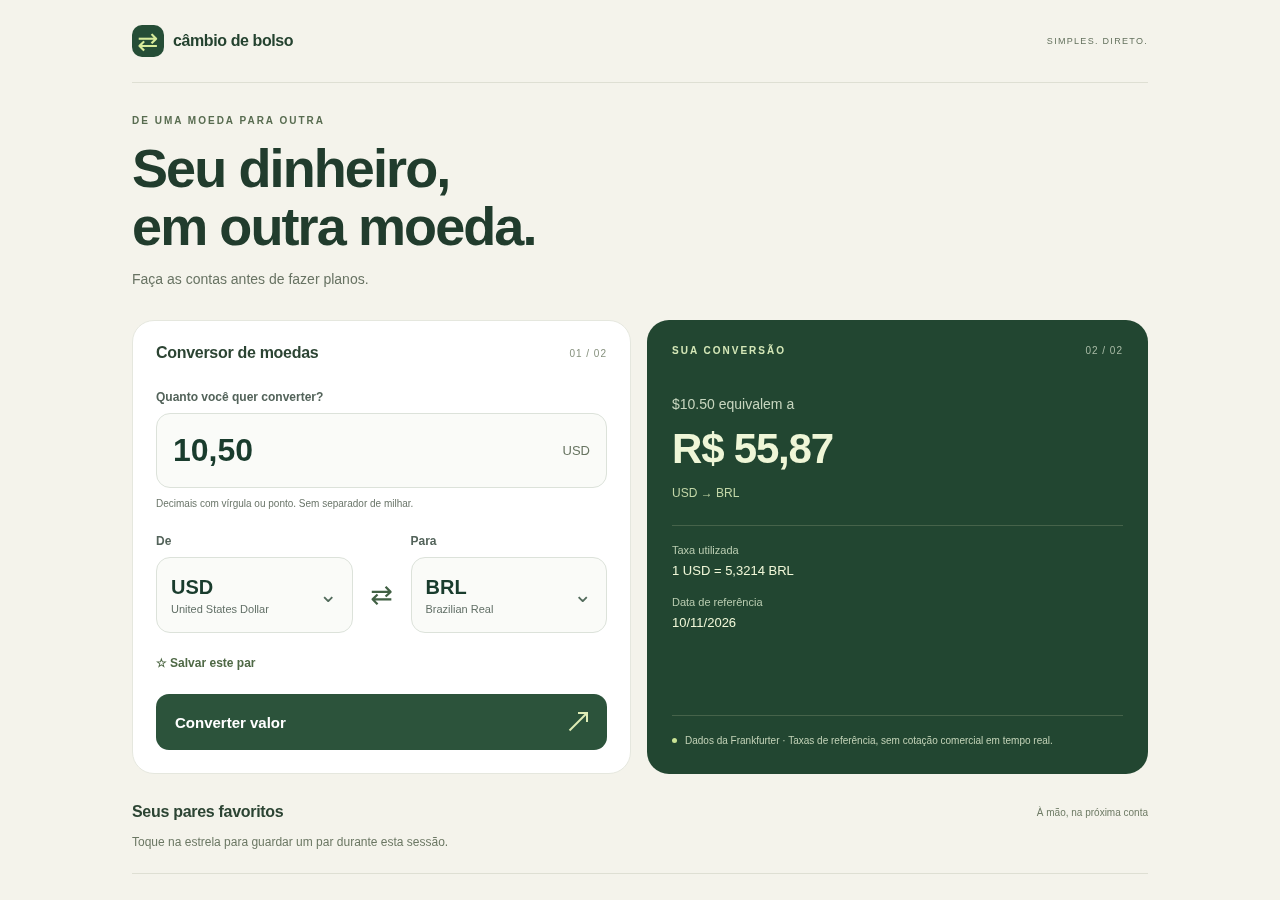
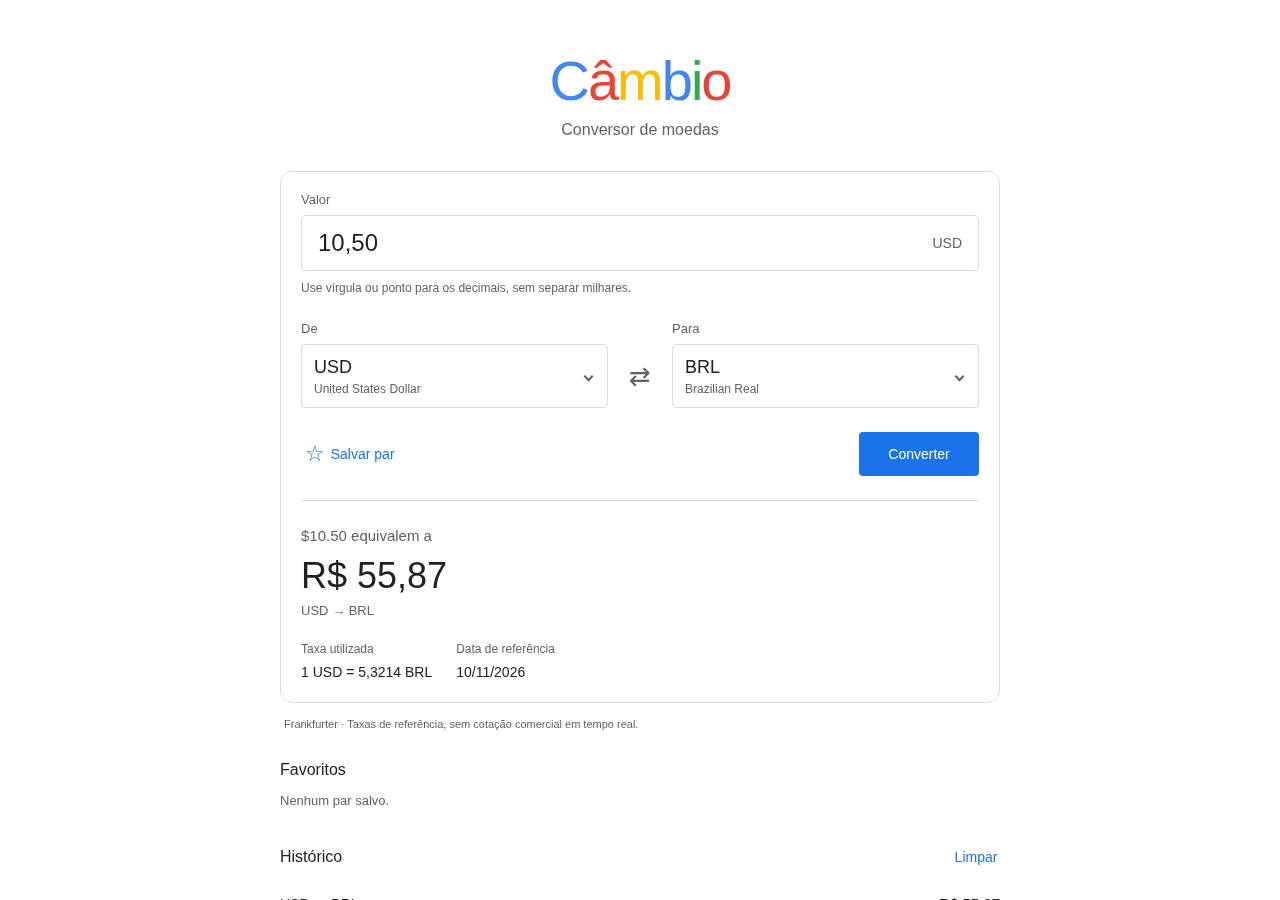
docs: atualiza capturas e referências do novo layout

diff --git a/docs/requisitos.md b/docs/requisitos.md
@@ -4,85 +4,87 @@ Este documento relaciona os requisitos do enunciado “Aplicativo de Conversão 
 
 ## Entrega e arquitetura
 
-| Requisito | Implementação ou instrução |
-| --- | --- |
-| React Native com JavaScript e Expo | `package.json`, `app.json`, `index.js` e `App.js`; Node 24 em `.nvmrc`. |
-| Estrutura simples em MVVM | Pastas `src/models`, `src/viewmodels` e `src/views`. |
-| Inicialização e integração da tela | `App.js`. |
-| Model independente da interface | `src/models/frankfurter.js`: requisições, HTTP, JSON e validação dos dados. |
-| View sem requisições ou cálculo de conversão | `ConverterScreen.js` e `CurrencyPicker.js`: renderização e eventos. |
-| ViewModel com React Hooks | `useConverterViewModel.js`: estados, efeitos, validação e coordenação. |
-| Regras e formatação separadas da tela | `src/viewmodels/conversion.js`. |
-| Instruções de instalação, navegador e plataformas nativas | `README.md`. |
-| Código no GitHub | Repositório `TheusBertelli/conversor-de-moedas`; commits e envio são verificados à parte. |
-| Capturas de tela | `docs/screenshots/conversao-mobile.png` e `conversao-desktop.png`; a legenda no README informa a origem dos dados. |
+| Requisito                                                 | Implementação ou instrução                                                                                         |
+| --------------------------------------------------------- | ------------------------------------------------------------------------------------------------------------------ |
+| React Native com JavaScript e Expo                        | `package.json`, `app.json`, `index.js` e `App.js`; Node 24 em `.nvmrc`.                                            |
+| Estrutura simples em MVVM                                 | Pastas `src/models`, `src/viewmodels` e `src/views`.                                                               |
+| Inicialização e integração da tela                        | `App.js`.                                                                                                          |
+| Model independente da interface                           | `src/models/frankfurter.js`: requisições, HTTP, JSON e validação dos dados.                                        |
+| View sem requisições ou cálculo de conversão              | `ConverterScreen.js`, `CurrencyPicker.js`, `ConversionResult.js` e `ConversionHistory.js`: renderização e eventos. |
+| ViewModel com React Hooks                                 | `useConverterViewModel.js`: estados, efeitos, validação e coordenação.                                             |
+| Regras e formatação separadas da tela                     | `src/viewmodels/conversion.js`.                                                                                    |
+| Convenções de código                                      | ESLint e Prettier; `npm run format` aplica a formatação e `npm run format:check` verifica.                         |
+| Cores compartilhadas da interface                         | `src/views/colors.js`.                                                                                             |
+| Instruções de instalação, navegador e plataformas nativas | `README.md`.                                                                                                       |
+| Código no GitHub                                          | Repositório `TheusBertelli/conversor-de-moedas`; commits e envio são verificados à parte.                          |
+| Capturas de tela                                          | `docs/screenshots/conversao-mobile.png` e `conversao-desktop.png`; a legenda no README informa a origem dos dados. |
 
 ## Tela e fluxo de conversão
 
-| Requisito | Implementação | Verificação prevista |
-| --- | --- | --- |
-| Título, entrada de valor, seleção de origem e destino, botão e área de resultado | `ConverterScreen.js` | Navegação e conversão pela interface. |
-| Seleção simples, com nomes e códigos de moeda | `CurrencyPicker.js`, com modal, busca e lista | Abrir cada seletor e escolher uma moeda. |
-| Lista de moedas recebida ao iniciar | Efeito do ViewModel chama `getCurrencies` | Testes do Model e do ViewModel. |
-| Moedas iniciais válidas e seletores indisponíveis durante o carregamento | ViewModel usa USD/BRL quando disponíveis e escolhe alternativas do catálogo; View desabilita seletores | Testes do ViewModel e inspeção da tela. |
-| Requisição após validação dos campos | `convert` no ViewModel | Entradas inválidas não chamam `getRate`. |
-| Consulta na direção correta | `getRate(base, quote)` | Testes verificam URL e par retornado. |
-| Cálculo com a taxa recebida | `valor informado × rate` no ViewModel | Teste de conversão e precisão. |
-| Resultado com valor original, origem, convertido e destino | `result` e cartão de resultado | Conferência visual e testes do ViewModel. |
-| Exibição da taxa e da data retornadas | Cartão de resultado e formatadores | Testes de dados e data sem mudança de fuso. |
-| Formatação monetária sem reutilizar valor arredondado no cálculo | `formatMoney` apenas na apresentação | Testes de formatação e cálculo. |
-| Layout adequado a celular, tablet e navegador | `StyleSheet`, `SafeAreaView`, rolagem, adaptação por largura e teclado | Capturas em larguras diferentes; validação nativa pendente de dispositivo. |
-| Indicação de taxa de referência | Texto no cartão de resultado | Inspeção da tela. |
-| Nenhuma taxa fixa em produção | Model consulta a Frankfurter para concluir cada conversão | Revisão do código; integração real depende de acesso à API. |
+| Requisito                                                                        | Implementação                                                                                          | Verificação prevista                                                       |
+| -------------------------------------------------------------------------------- | ------------------------------------------------------------------------------------------------------ | -------------------------------------------------------------------------- |
+| Título, entrada de valor, seleção de origem e destino, botão e área de resultado | `ConverterScreen.js`                                                                                   | Navegação e conversão pela interface.                                      |
+| Seleção simples, com nomes e códigos de moeda                                    | `CurrencyPicker.js`, com modal, busca e lista                                                          | Abrir cada seletor e escolher uma moeda.                                   |
+| Lista de moedas recebida ao iniciar                                              | Efeito do ViewModel chama `getCurrencies`                                                              | Testes do Model e do ViewModel.                                            |
+| Moedas iniciais válidas e seletores indisponíveis durante o carregamento         | ViewModel usa USD/BRL quando disponíveis e escolhe alternativas do catálogo; View desabilita seletores | Testes do ViewModel e inspeção da tela.                                    |
+| Requisição após validação dos campos                                             | `convert` no ViewModel                                                                                 | Entradas inválidas não chamam `getRate`.                                   |
+| Consulta na direção correta                                                      | `getRate(base, quote)`                                                                                 | Testes verificam URL e par retornado.                                      |
+| Cálculo com a taxa recebida                                                      | `valor informado × rate` no ViewModel                                                                  | Teste de conversão e precisão.                                             |
+| Resultado com valor original, origem, convertido e destino                       | `result` e `ConversionResult.js`                                                                       | Conferência visual e testes do ViewModel.                                  |
+| Exibição da taxa e da data retornadas                                            | `ConversionResult.js` e formatadores                                                                   | Testes de dados e data sem mudança de fuso.                                |
+| Formatação monetária sem reutilizar valor arredondado no cálculo                 | `formatMoney` apenas na apresentação                                                                   | Testes de formatação e cálculo.                                            |
+| Layout adequado a celular, tablet e navegador                                    | `StyleSheet`, `SafeAreaView`, rolagem, adaptação por largura e teclado                                 | Capturas em larguras diferentes; validação nativa pendente de dispositivo. |
+| Indicação de taxa de referência                                                  | Aviso abaixo do formulário                                                                             | Inspeção da tela.                                                          |
+| Nenhuma taxa fixa em produção                                                    | Model consulta a Frankfurter para concluir cada conversão                                              | Revisão do código; integração real depende de acesso à API.                |
 
 ## Validação obrigatória
 
 Os casos estão em `tests/conversion.test.js` e `tests/useConverterViewModel.test.js`.
 
-| Entrada ou situação | Comportamento esperado |
-| --- | --- |
-| Campo vazio ou só espaços | Pedir que o usuário digite um valor, sem consultar a taxa. |
-| Texto, símbolos, notação científica ou separadores misturados | Explicar o formato aceito, sem consultar a taxa. |
-| Zero ou número negativo | Informar que o valor precisa ser maior que zero. |
-| Decimal com vírgula ou ponto | Interpretar ambos como separador decimal. Não são aceitos separadores de milhar. |
-| Origem ou destino ausente | Solicitar a seleção da moeda correspondente. |
-| Código fora da lista recebida | Solicitar moedas disponíveis. |
-| Origem e destino iguais | Bloquear e solicitar moedas diferentes. |
-| Número fora do intervalo suportado | Bloquear uma entrada ou resultado que não possa ser calculado com segurança. |
+| Entrada ou situação                                           | Comportamento esperado                                                           |
+| ------------------------------------------------------------- | -------------------------------------------------------------------------------- |
+| Campo vazio ou só espaços                                     | Pedir que o usuário digite um valor, sem consultar a taxa.                       |
+| Texto, símbolos, notação científica ou separadores misturados | Explicar o formato aceito, sem consultar a taxa.                                 |
+| Zero ou número negativo                                       | Informar que o valor precisa ser maior que zero.                                 |
+| Decimal com vírgula ou ponto                                  | Interpretar ambos como separador decimal. Não são aceitos separadores de milhar. |
+| Origem ou destino ausente                                     | Solicitar a seleção da moeda correspondente.                                     |
+| Código fora da lista recebida                                 | Solicitar moedas disponíveis.                                                    |
+| Origem e destino iguais                                       | Bloquear e solicitar moedas diferentes.                                          |
+| Número fora do intervalo suportado                            | Bloquear uma entrada ou resultado que não possa ser calculado com segurança.     |
 
 ## API, carregamento e erros
 
 O contrato utilizado foi conferido na fonte oficial da Frankfurter. A API pública não exige chave para esses endpoints.
 
-| Requisito | Implementação e cobertura |
-| --- | --- |
-| Moedas em JSON | `GET https://api.frankfurter.dev/v2/currencies`; normaliza `iso_code` e `name`. |
-| Taxa, par e data em JSON | `GET https://api.frankfurter.dev/v2/rate/{base}/{quote}`; valida `{date,base,quote,rate}`. |
-| Endpoint alternativo citado no enunciado | `/v2/rates?base=USD&quotes=BRL` é uma alternativa à consulta de par. O aplicativo usa `/rate/{base}/{quote}`. |
-| Aguardar as respostas e verificar sucesso HTTP | `async`/`await` e `response.ok` no Model. |
-| Distinguir falha de rede, HTTP, JSON e resposta incompatível | `FrankfurterError`, coberto por `tests/frankfurter.test.js`. |
-| Resposta vazia ou taxa ausente/inválida | Validação de catálogo, taxa positiva e finita, par e data; testes do Model. |
-| Erro quando um par não está disponível | Mensagem específica para HTTP 404; possibilidade de escolher outro par. |
-| Tempo limite de consulta | Cancelamento após 15 segundos, com mensagem e teste. |
-| Carregamento inicial e durante a conversão | Estados separados `loadingCurrencies` e `converting`, indicadores na View. |
-| Impedir consultas simultâneas por cliques repetidos | Botão desabilitado e controle por referência no ViewModel; teste de chamada duplicada. |
-| Encerrar carregamento também após erro | Blocos `finally`, testados no Model e no ViewModel. |
-| Nova tentativa | Botão para recarregar catálogo e botão de conversão liberado depois de uma falha. |
-| Separar erro da API de erro de entrada | Estados `error` e `validationError`. |
-| Não apresentar resultado antigo como atual | Editar campos ou iniciar outra conversão limpa `result`; histórico fica separado. |
-| Não deixar resposta antiga sobrescrever a nova | Cancelamento e conferência da identidade da requisição antes de atualizar o estado. |
-| Cancelar ao sair da tela | Limpeza do efeito e `AbortController`; testes do ViewModel. |
+| Requisito                                                    | Implementação e cobertura                                                                                                      |
+| ------------------------------------------------------------ | ------------------------------------------------------------------------------------------------------------------------------ |
+| Moedas em JSON                                               | `GET https://api.frankfurter.dev/v2/currencies`; normaliza `iso_code` e `name`.                                                |
+| Taxa, par e data em JSON                                     | `GET https://api.frankfurter.dev/v2/rate/{base}/{quote}`; valida `{date,base,quote,rate}`.                                     |
+| Endpoint alternativo citado no enunciado                     | `/v2/rates?base=USD&quotes=BRL` é uma alternativa à consulta de par. O aplicativo usa `/rate/{base}/{quote}`.                  |
+| Aguardar as respostas e verificar sucesso HTTP               | `async`/`await` e `response.ok` no Model.                                                                                      |
+| Distinguir falha de rede, HTTP, JSON e resposta incompatível | `FrankfurterError`, coberto por `tests/frankfurter.test.js`.                                                                   |
+| Resposta vazia ou taxa ausente/inválida                      | Validação de catálogo, taxa positiva e finita, par e data; testes do Model.                                                    |
+| Erro quando um par não está disponível                       | Mensagem específica para HTTP 404; possibilidade de escolher outro par. O erro 404 do catálogo orienta a recarregar as moedas. |
+| Tempo limite de consulta                                     | Cancelamento após 15 segundos, com mensagem e teste.                                                                           |
+| Carregamento inicial e durante a conversão                   | Estados separados `loadingCurrencies` e `converting`, indicadores na View.                                                     |
+| Impedir consultas simultâneas por cliques repetidos          | Botão desabilitado e controle por referência no ViewModel; teste de chamada duplicada.                                         |
+| Encerrar carregamento também após erro                       | Blocos `finally`, testados no Model e no ViewModel.                                                                            |
+| Nova tentativa                                               | Botão para recarregar catálogo e botão de conversão liberado depois de uma falha.                                              |
+| Separar erro da API de erro de entrada                       | Estados `error` e `validationError`.                                                                                           |
+| Não apresentar resultado antigo como atual                   | Editar campos ou iniciar outra conversão limpa `result`; histórico fica separado.                                              |
+| Não deixar resposta antiga sobrescrever a nova               | Cancelamento e conferência da identidade da requisição antes de atualizar o estado.                                            |
+| Cancelar ao sair da tela                                     | Limpeza do efeito e `AbortController`; testes do ViewModel.                                                                    |
 
 ## Desafios opcionais incluídos
 
-| Funcionalidade | Comportamento |
-| --- | --- |
-| Histórico temporário | Guarda as últimas 10 conversões da sessão e permite limpar. |
-| Inversão de moedas | Troca origem e destino e limpa o resultado para uma nova consulta. |
+| Funcionalidade            | Comportamento                                                                                                             |
+| ------------------------- | ------------------------------------------------------------------------------------------------------------------------- |
+| Histórico temporário      | Guarda as últimas 10 conversões da sessão e permite limpar; apresentação em `ConversionHistory.js`.                       |
+| Inversão de moedas        | Troca origem e destino e limpa o resultado para uma nova consulta.                                                        |
 | Formatação por localidade | Localidades mapeadas por moeda; padrão `pt-BR` nas demais e alternativa para códigos não aceitos por `Intl.NumberFormat`. |
-| Última consulta | Data de referência da taxa no resultado e em cada item do histórico. |
-| Favoritos | Guarda pares durante a sessão, permite usar e remover o par atual. |
-| Testes automatizados | Testes do Model, das validações, dos formatadores e do fluxo do ViewModel. |
+| Última consulta           | Data de referência da taxa no resultado e em cada item do histórico.                                                      |
+| Favoritos                 | Guarda pares durante a sessão, permite usar e remover o par atual.                                                        |
+| Testes automatizados      | Testes do Model, das validações, dos formatadores e do fluxo do ViewModel.                                                |
 
 ## Conferência manual em dispositivo
 
@@ -103,11 +105,11 @@ Esta lista pode ser desmarcada para repetir a conferência. Ela não representa 
 
 Os testes automatizados usam respostas controladas. Acesso real à Frankfurter e execução em aparelho ou emulador devem ser registrados separadamente dos testes locais e das capturas do navegador.
 
-## Resultado das verificações nesta entrega
+## Verificação da revisão visual
 
-- Projeto inicial Expo aberto no Chromium antes da integração da tela.
-- ESLint e 77 testes de Model, ViewModel, validação e formatação passaram.
-- Exportação web e bundles Hermes de Android e iOS gerados sem erro. Bundles nativos não equivalem à instalação ou execução em um aparelho.
-- 16 testes da interface passaram no Chromium em larguras de celular e desktop, com respostas controladas da API; capturas no README têm a mesma origem.
+- `npm run check` verifica a formatação, executa ESLint, roda os 78 testes de Model, ViewModel, validação e formatação e gera a versão web.
+- `npm run test:e2e` executa 16 cenários no Chromium em larguras de celular e desktop, com respostas controladas da API; capturas no README têm a mesma origem.
+- A revisão usa fundo branco, formulário centralizado, bordas cinza e ações azuis. O resultado fica junto do formulário, sem slogans ou etapas numeradas. As referências oficiais estão no README.
+- O projeto inicial Expo foi aberto no Chromium e os bundles Hermes de Android e iOS foram gerados na primeira entrega. Isso não equivale à instalação ou execução do novo layout em um aparelho.
 - A consulta real à Frankfurter foi tentada e bloqueada pela política de rede do ambiente (HTTPS CONNECT 403). `npm run test:api` permite repetir a consulta após liberar `api.frankfurter.dev`.
 - Sem emulador Android, simulador iOS ou dispositivo conectado nesta máquina. A conferência nativa permanece na lista acima.

diff --git a/README.md b/README.md
@@ -31,7 +31,7 @@ Não é necessário criar conta na Frankfurter, configurar `.env` ou fornecer um
 
 1. Digite um valor maior que zero. `10,50` e `10.50` representam o mesmo valor. Não use separadores de milhar, símbolos de moeda ou notação científica.
 2. Escolha as moedas de origem e destino. A lista vem da API e pode ser pesquisada pelo código ou nome.
-3. Toque em **Converter valor**. A consulta só começa depois da validação dos campos.
+3. Toque em **Converter**. A consulta só começa depois da validação dos campos.
 4. Confira o resultado, a taxa e a data de referência. O botão de inversão troca a direção para uma nova consulta.
 
 É possível salvar pares na estrela e selecioná-los novamente na área de favoritos. As últimas 10 conversões aparecem no histórico, que pode ser limpo. Favoritos e histórico ficam apenas na memória da sessão; fechar ou recarregar o app apaga esses dados.
@@ -53,17 +53,20 @@ src/
   views/
     ConverterScreen.js
     CurrencyPicker.js
+    ConversionResult.js
+    ConversionHistory.js
+    colors.js
 tests/
 ```
 
-| Camada | Responsabilidade |
-| --- | --- |
-| Model | Faz as requisições, verifica o HTTP e valida o formato dos dados recebidos. |
+| Camada    | Responsabilidade                                                                                                            |
+| --------- | --------------------------------------------------------------------------------------------------------------------------- |
+| Model     | Faz as requisições, verifica o HTTP e valida o formato dos dados recebidos.                                                 |
 | ViewModel | Guarda os estados, valida os campos, coordena as consultas e calcula `valor × taxa`. Também controla histórico e favoritos. |
-| View | Renderiza campos, seletores, carregamento, erros e resultado. Encaminha as ações ao ViewModel. |
-| `App.js` | Integra a tela principal aos componentes de inicialização do aplicativo. |
+| View      | Renderiza campos, seletores, carregamento, erros e resultado. Encaminha as ações ao ViewModel.                              |
+| `App.js`  | Integra a tela principal aos componentes de inicialização do aplicativo.                                                    |
 
-Para alterar a aparência de um botão, edite a View. Para mudar uma regra de entrada, edite `conversion.js`. Para mudar o acesso à API, edite o Model. A View não faz `fetch`.
+Para alterar a aparência de um botão, edite a View. Para mudar uma regra de entrada, edite `conversion.js`. Para mudar o acesso à API, edite o Model. A View não faz `fetch`. O resultado e o histórico têm componentes próprios, e as cores compartilhadas ficam em `colors.js`.
 
 O aplicativo usa a API v2:
 
@@ -77,12 +80,15 @@ Cada requisição tem um limite de 15 segundos. O Model distingue falha de conex
 ## Verificação
 
 ```bash
+npm run format:check
 npm run lint
 npm test
 npm run build:web
 ```
 
-`npm run check` executa os três comandos em sequência. Para desenvolver os testes, use `npm run test:watch`.
+`npm run check` executa os quatro comandos em sequência. A suíte de Model, ViewModel e formatação contém 78 testes; os testes de interface têm 16 cenários, divididos entre celular e desktop. Para desenvolver os testes, use `npm run test:watch`.
+
+O ESLint verifica os padrões de JavaScript e React. O Prettier mantém aspas simples, vírgulas finais e quebra de linha consistente. Execute `npm run format` para formatar os arquivos antes de commitar. As responsabilidades seguem o MVVM, com nomes descritivos e componentes separados por função.
 
 Os testes em `tests/` cobrem validação, formatação, contrato da API, erros, cancelamento, conversão, histórico e favoritos. As requisições são simuladas nos testes para exercitar cenários sem depender da disponibilidade da Frankfurter. Isso não substitui a verificação de uma consulta real nem a execução em dispositivo Android ou iOS.
 
@@ -104,7 +110,16 @@ Para verificar o acesso à API real, sem respostas simuladas, use Node 24 e exec
 npm run test:api
 ```
 
-A integração contínua em `.github/workflows/ci.yml` executa lint, testes, build web e os testes de interface a cada push em `main` ou pull request. A consulta à API real fica separada para não depender de um serviço externo em cada execução.
+A integração contínua em `.github/workflows/ci.yml` executa verificação de formatação, lint, testes, build web e os testes de interface a cada push em `main` ou pull request. A consulta à API real fica separada para não depender de um serviço externo em cada execução.
+
+## Interface e referências
+
+O layout segue a simplicidade das páginas do Google: fundo branco, conteúdo centralizado, bordas cinza e controles azuis. O nome Câmbio usa letras coloridas, sem reproduzir o logotipo do Google. Campos, seletores e botões continuam feitos com componentes do React Native; o Material Web foi usado como referência visual, não como dependência.
+
+Referências consultadas:
+
+- Material Design: [campos de texto](https://github.com/material-components/material-web/blob/main/docs/components/text-field.md), [botões](https://github.com/material-components/material-web/blob/main/docs/components/button.md) e [papéis de cor](https://github.com/material-components/material-web/blob/main/docs/theming/color.md).
+- React: [funções retornadas por hooks personalizados](https://react.dev/reference/react/useCallback#optimizing-a-custom-hook).
 
 ## Capturas de tela
 
@@ -113,6 +128,5 @@ Capturas da versão web em largura mobile e desktop, usando respostas controlada
 ![Conversão em largura mobile](docs/screenshots/conversao-mobile.png)
 
 ![Conversão em largura desktop](docs/screenshots/conversao-desktop.png)
-
 
 As instruções específicas desta máquina estão em [docs/ambiente-nuvem.md](docs/ambiente-nuvem.md).
